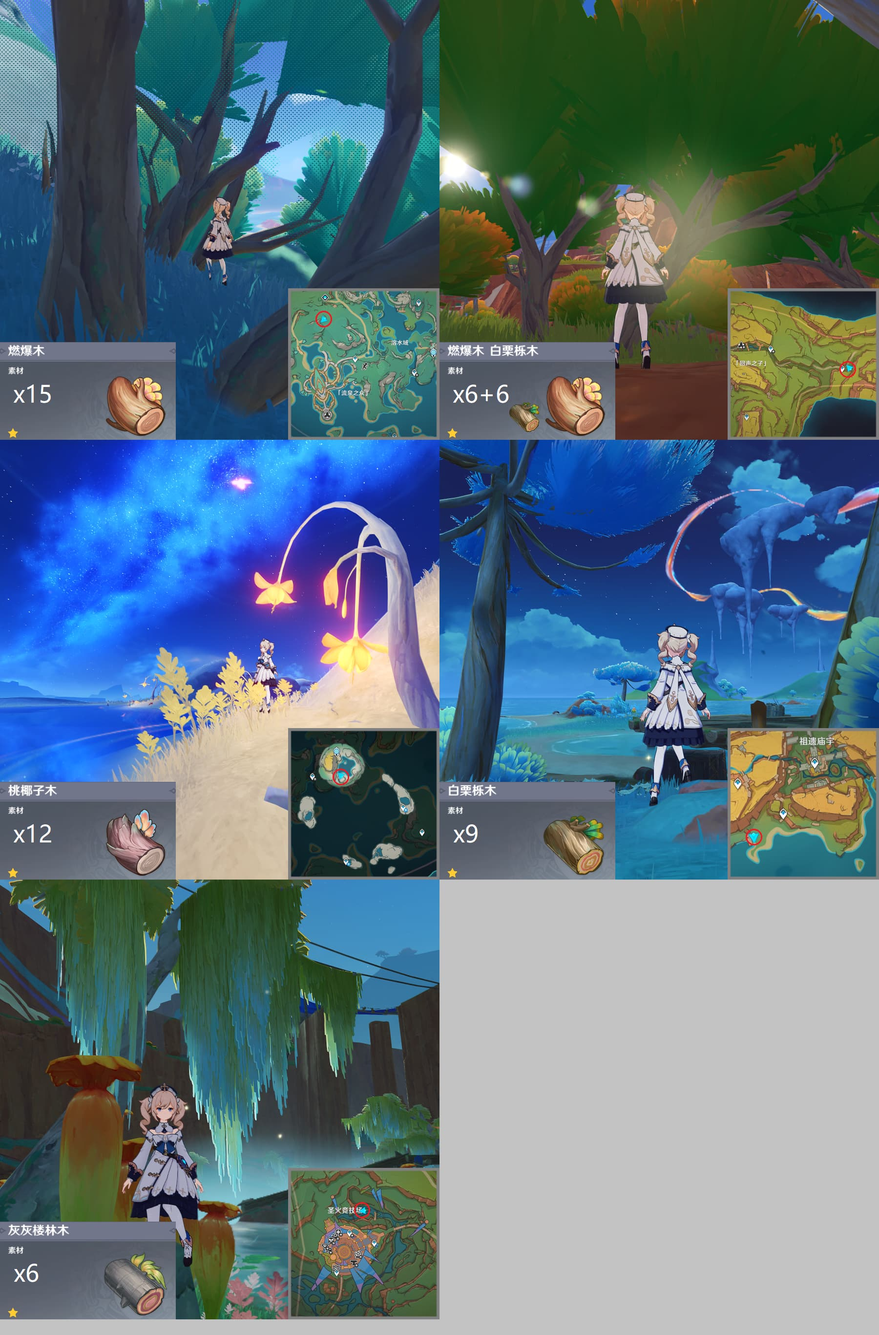
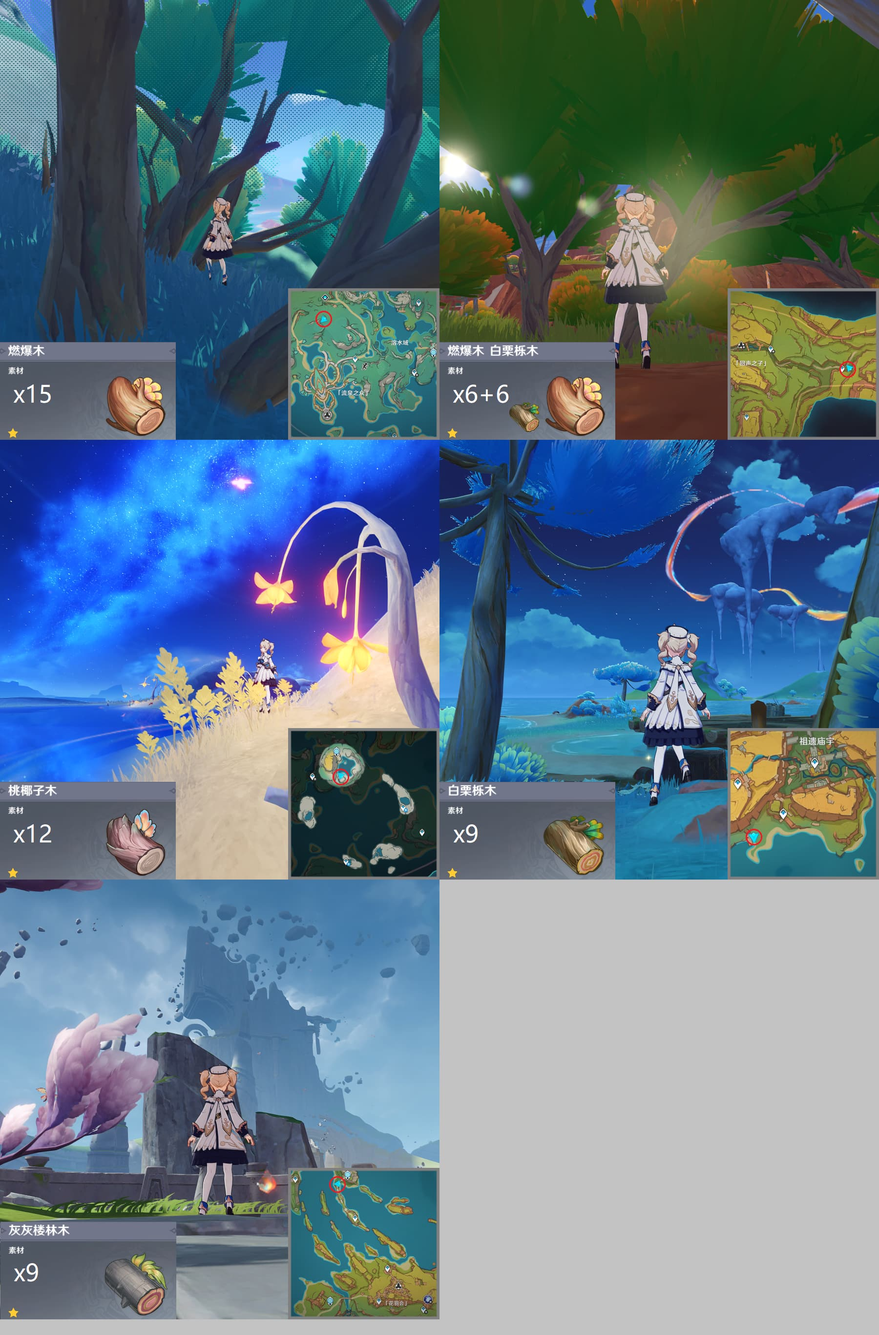
更新伐木点

Changed region(s): [[0.0, 0.6534, 0.4978, 0.9956]]

diff --git a/src/feats/task/felling.md b/src/feats/task/felling.md
@@ -46,4 +46,4 @@ order: 20
 
 ### 纳塔
 
-![](https://img.alicdn.com/imgextra/i3/2042484851/O1CN012Q4dXT1lhoJ2vSBU4_!!2042484851.jpg)
+![](https://img.alicdn.com/imgextra/i3/2042484851/O1CN01jD93ug1lhoLFTnimj_!!2042484851.jpg)
